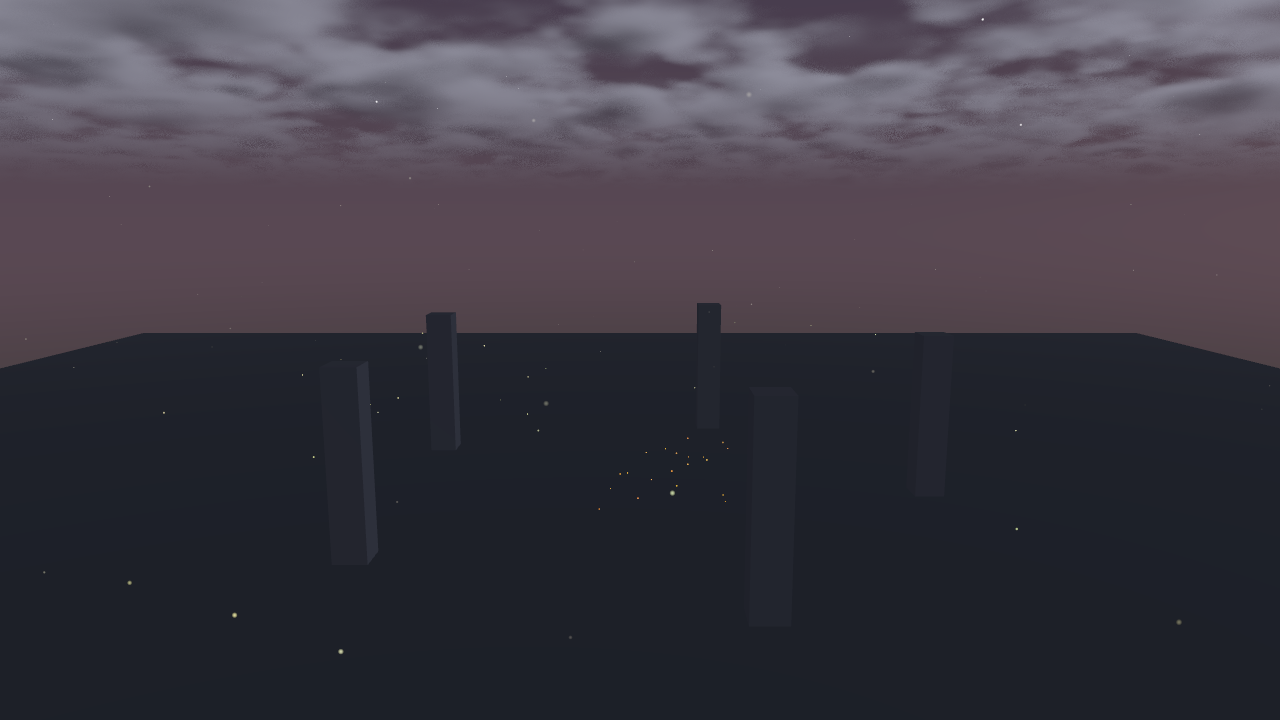
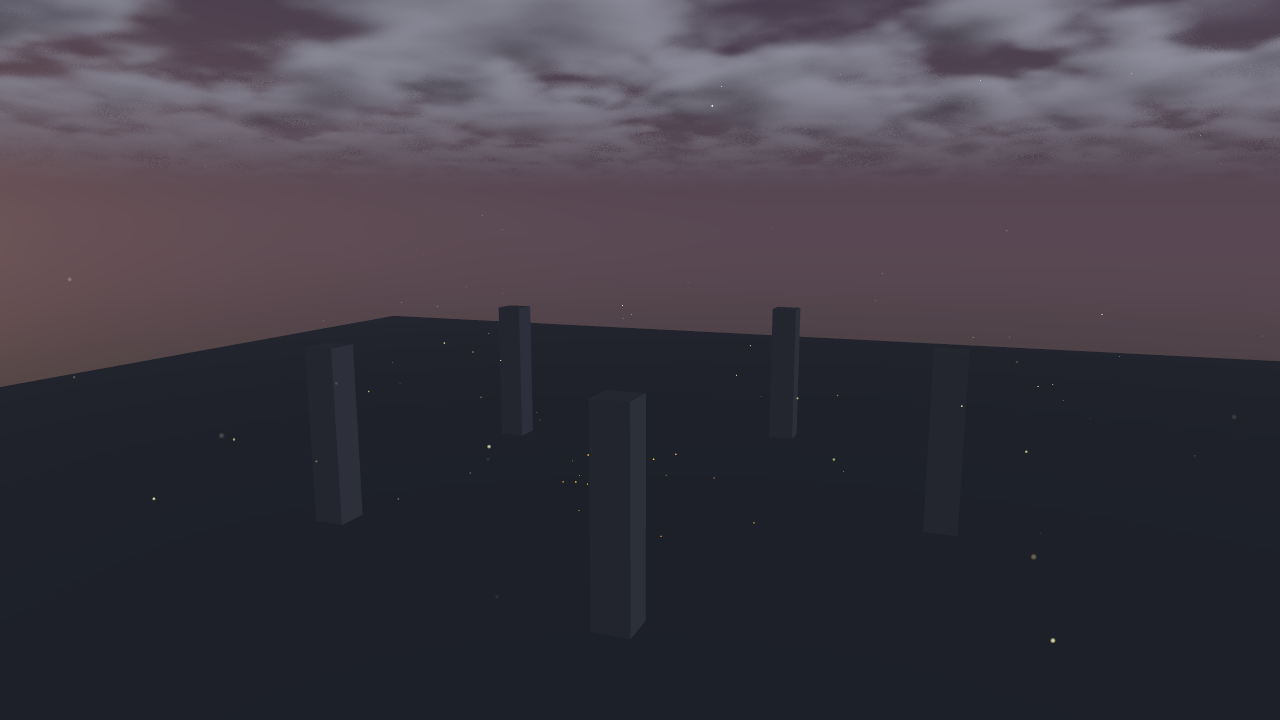
Regenerate the documentation screenshots
Long overdue: six examples changed framing when their cameras became
automatic, and 16-materials and 17-input had no image at all. Every other
image moves only by the sun's position and the wind, which is the point --
the HDR target and the resolve are visually neutral in the scenes that
do not ask for a curve or a glow.

16-materials is captured at 150 frames rather than 60 so its orbit has
carried far enough to show all five panels.

diff --git a/examples/README.md b/examples/README.md
@@ -24,7 +24,7 @@ Each is a complete, self-contained `main()` — copy one and start editing.
 | 12 | `12-particles` | Three emitters: fireflies, sparks, dust, drawn as additive billboards | none |
 | 13 | `13-ui` | Immediate-mode HUD: panels, progress bars, MSDF labels, one mesh | Go Regular, generated by `task font` |
 | 15 | `15-kitchen-sink` | Everything at once: character running over lit terrain, through grass, with a text overlay | Kenney + Quaternius CC0, Go Regular |
-| 16 | `16-materials` | Normal, metallic-roughness and occlusion maps, one added per panel | none (all four generated at startup) |
+| 16 | `16-materials` | Normal, metallic-roughness, occlusion and emissive maps, one added per panel; the emissive one drives the tonemap curve and bloom | none (all five generated at startup) |
 | 17 | `17-input` | Named actions across keyboard, mouse and gamepad, with a live device readout and runtime rebinding | none |
 
 More land as the extraction proceeds — glTF loading, skinned animation,
